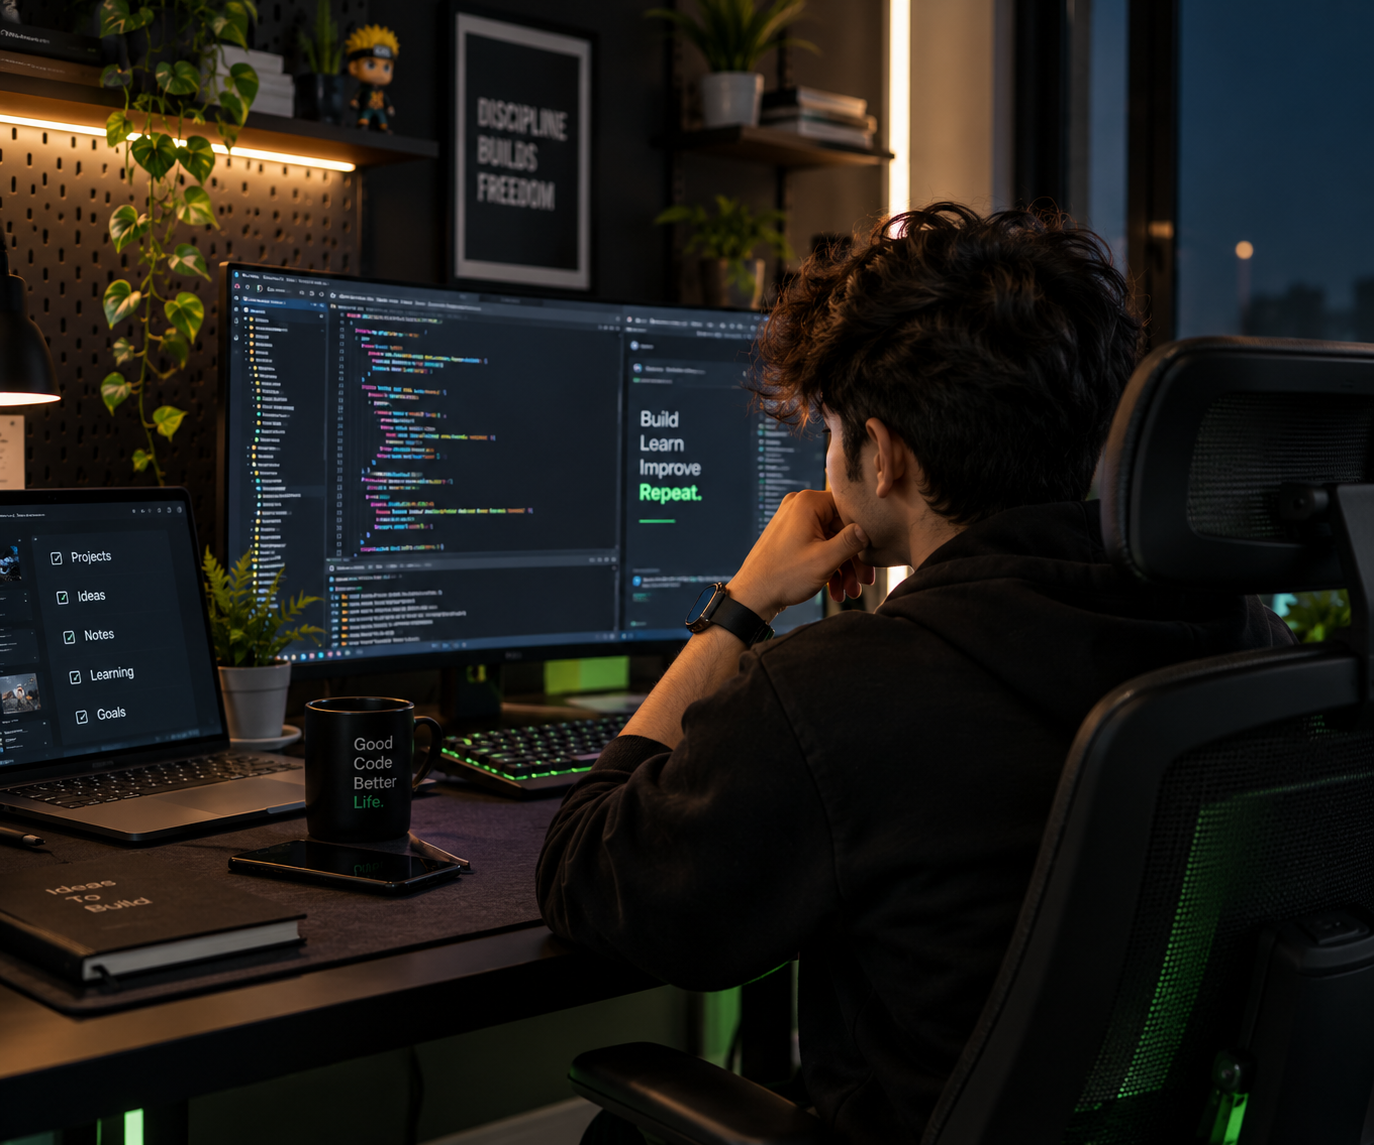
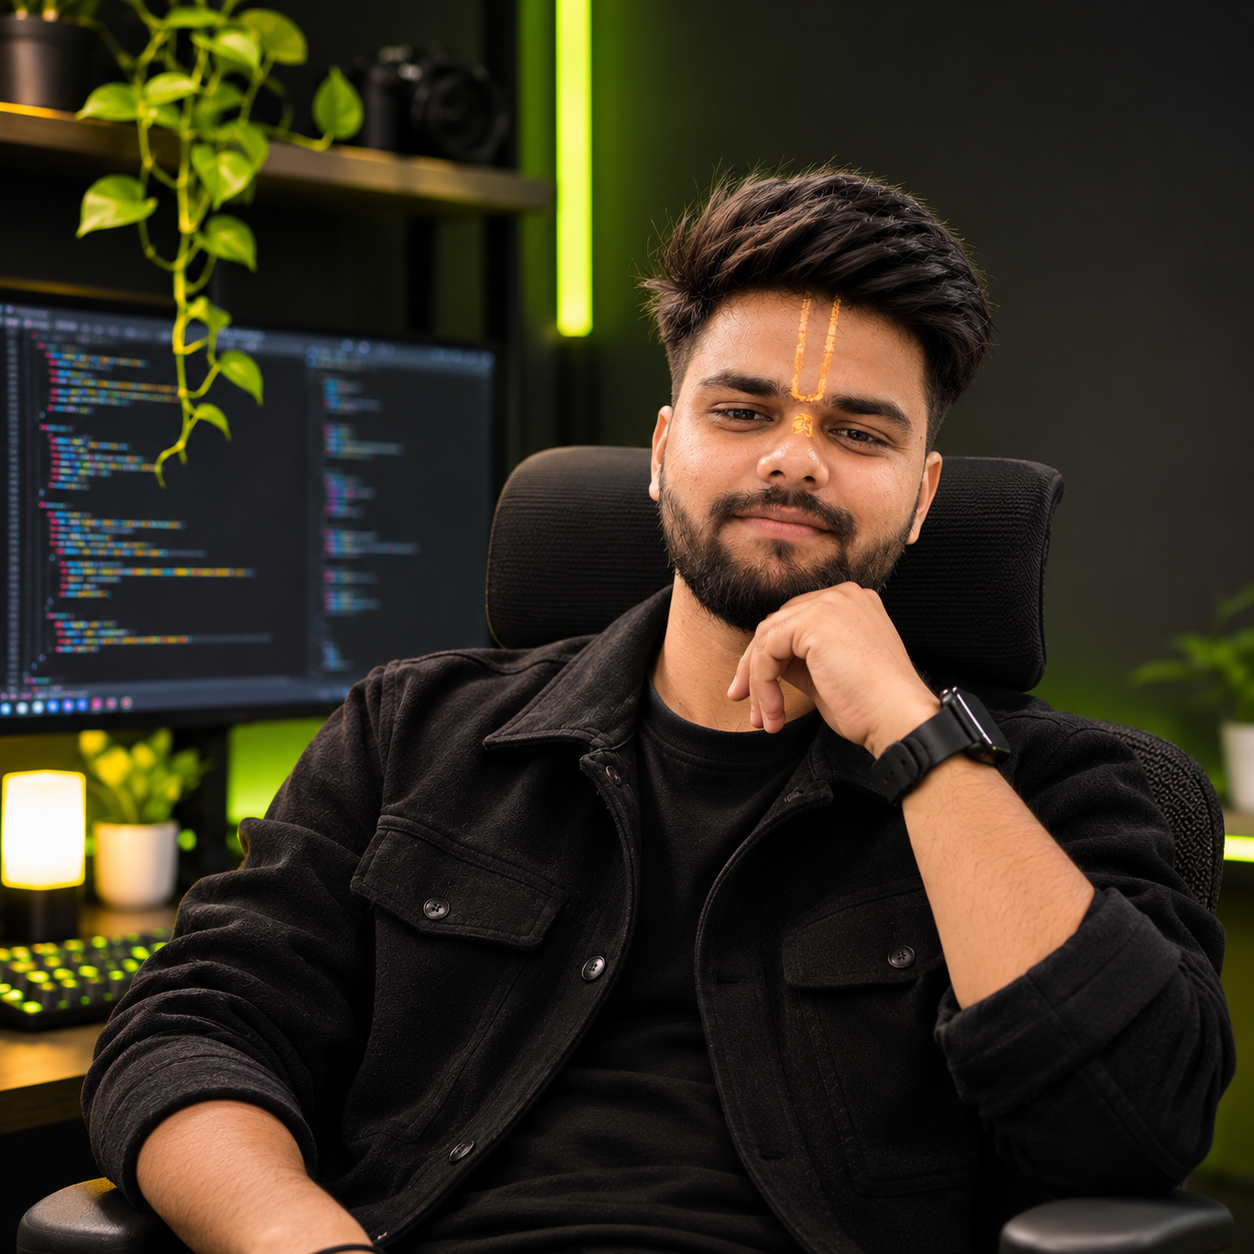
successfully create other sections

diff --git a/frontend/src/pages/AskAISection.tsx b/frontend/src/pages/AskAISection.tsx
@@ -1,0 +1,190 @@
+
+import {
+  ArrowRight,
+  Bot,
+  LockKeyhole,
+  Sparkles,
+} from "lucide-react";
+
+const suggestions = [
+  "His projects?",
+  "Skills?",
+  "His development journey?",
+];
+
+const AskAISection = () => {
+  const isActivated = false;
+
+  return (
+    <section id="ask-ai" className="section">
+      <div className="grid grid-cols-1 items-center gap-12 lg:grid-cols-[0.9fr_1.1fr] lg:gap-16">
+
+        {/* Left Content */}
+        <div>
+          <p className="label">07 / ASK AI</p>
+
+          <h2 className="max-w-lg text-4xl leading-[1.1] font-bold tracking-tight sm:text-5xl lg:text-6xl">
+            Curious about me?
+            <br />
+            Just <span className="text-brand">ask.</span>
+          </h2>
+
+          <p className="mt-6 max-w-md text-base leading-8 text-muted">
+            My personal AI assistant can help you explore my projects,
+            technical skills and development journey.
+            Get to know more about how I work without searching
+            through the entire portfolio.
+          </p>
+
+          <div className="mt-8 flex items-center gap-3">
+            <span className="flex h-9 w-9 items-center justify-center rounded-xl border border-line bg-surface text-brand">
+              <Sparkles size={17} />
+            </span>
+
+            <span className="text-sm text-muted">
+              A little more about me, powered by AI.
+            </span>
+          </div>
+        </div>
+
+        {/* Chat Preview */}
+        <div className="relative overflow-hidden rounded-3xl border border-line bg-surface shadow-2xl">
+
+          {/* Chat Header */}
+          <div className="flex items-center justify-between border-b border-line px-5 py-5 sm:px-7">
+            <div className="flex items-center gap-3">
+              <div className="flex h-10 w-10 items-center justify-center rounded-xl border border-line bg-surface-2 text-brand">
+                <Bot size={21} />
+              </div>
+
+              <div>
+                <h3 className="text-sm font-semibold text-text">
+                  Vivek's AI assistant
+                </h3>
+                <p className="mt-1 font-mono text-[10px] text-muted">
+                  PERSONAL KNOWLEDGE ASSISTANT
+                </p>
+              </div>
+            </div>
+
+            <span className="flex items-center gap-2 font-mono text-xs text-muted">
+              <span className={`h-2 w-2 rounded-full ${
+                isActivated ? "bg-brand" : "bg-yellow-400"
+              }`} />
+              {isActivated ? "online" : "offline"}
+            </span>
+          </div>
+
+          {/* Chat Messages */}
+          <div className="space-y-5 p-5 sm:p-7">
+
+            {/* Assistant Message */}
+            <div className="max-w-[90%] rounded-2xl rounded-tl-sm border border-line bg-surface-2 px-4 py-4">
+              <p className="text-sm leading-6 text-text">
+                Hi! I'm Vivek's assistant. Ask me about his projects,
+                technical skills or development journey.
+              </p>
+            </div>
+
+            {/* User Message */}
+            <div className="ml-auto max-w-[85%] rounded-2xl rounded-br-sm bg-brand px-4 py-4">
+              <p className="text-sm font-medium text-ink">
+                What has Vivek built so far?
+              </p>
+            </div>
+
+            {/* Assistant Response */}
+            <div className="max-w-[95%] rounded-2xl rounded-tl-sm border border-line bg-surface-2 px-4 py-4">
+              <p className="text-sm leading-6 text-muted">
+                Once activated, I'll help you explore Vivek's projects,
+                the technologies he uses and the problems he's worked on.
+              </p>
+            </div>
+
+            {/* Suggested Questions */}
+            <div className="flex flex-wrap gap-2">
+              {suggestions.map((suggestion) => (
+                <span
+                  key={suggestion}
+                  className="rounded-full border border-line-strong px-3 py-2 font-mono text-[11px] text-muted"
+                >
+                  {suggestion}
+                </span>
+              ))}
+            </div>
+          </div>
+
+          {/* Input Preview */}
+          <div className="border-t border-line p-5 sm:p-6">
+            <div className="flex items-center gap-3">
+              <div className="flex-1 rounded-full border border-line-strong bg-bg px-5 py-4">
+                <span className="text-sm text-muted">
+                  Ask something about Vivek...
+                </span>
+              </div>
+
+              <button
+                type="button"
+                disabled
+                aria-label="Send message (unavailable)"
+                className="flex h-12 w-12 shrink-0 items-center justify-center rounded-full bg-brand text-ink opacity-50"
+              >
+                <ArrowRight size={20} />
+              </button>
+            </div>
+          </div>
+
+          {/* Activation Overlay */}
+          {!isActivated && (
+            <div className="absolute inset-0 z-10 flex items-center justify-center bg-bg/65 p-5 backdrop-blur-[3px]">
+              <div className="w-full max-w-sm rounded-2xl border border-line-strong bg-surface/95 p-6 shadow-2xl sm:p-7">
+
+                <div className="mx-auto flex h-12 w-12 items-center justify-center rounded-2xl border border-brand/20 bg-brand/10 text-brand">
+                  <LockKeyhole size={22} />
+                </div>
+
+                <h3 className="mt-5 text-center text-xl font-bold text-text">
+                  Something is brewing.
+                </h3>
+
+                <p className="mt-3 text-center text-sm leading-6 text-muted">
+                  I'm preparing my personal AI assistant.
+                  It'll be ready to answer your questions soon.
+                </p>
+
+                {/* Activation Progress */}
+                <div className="mt-6">
+                  <div className="mb-3 flex items-center justify-between">
+                    <span className="font-mono text-[10px] tracking-wider text-brand">
+                      SYSTEM INITIALIZATION
+                    </span>
+                    <span className="font-mono text-[10px] text-muted">
+                      IN PROGRESS
+                    </span>
+                  </div>
+
+                  <div className="h-1.5 overflow-hidden rounded-full bg-line">
+                    <div className="h-full w-1/3 rounded-full bg-brand animate-pulse" />
+                  </div>
+
+                  <p className="mt-3 text-center font-mono text-[10px] text-muted">
+                    Knowledge base · Configuration · Testing
+                  </p>
+                </div>
+
+                <div className="mt-6 flex items-center justify-center gap-2">
+                  <span className="h-1.5 w-1.5 animate-pulse rounded-full bg-brand" />
+                  <span className="font-mono text-[10px] text-muted">
+                    COMING SOON
+                  </span>
+                </div>
+              </div>
+            </div>
+          )}
+        </div>
+      </div>
+    </section>
+  );
+};
+
+export default AskAISection;

diff --git a/frontend/src/pages/ContactSection.tsx b/frontend/src/pages/ContactSection.tsx
@@ -1,0 +1,105 @@
+
+import { ArrowUpRight, Mail } from "lucide-react";
+import { FaGithub, FaLinkedin } from "react-icons/fa6";
+
+const contactLinks = [
+  {
+    label: "GitHub",
+    href: "https://github.com/Vivek-Sharma-dev",
+    icon: FaGithub,
+  },
+  {
+    label: "LinkedIn",
+    href: "https://www.linkedin.com/in/vivek-sharma-webdev",
+    icon: FaLinkedin,
+  },
+];
+
+const ContactSection = () => {
+  const currentYear = new Date().getFullYear();
+
+  return (
+    <footer id="contact" className="section pb-8">
+      {/* Main Contact Card */}
+      <div className="relative overflow-hidden rounded-3xl border border-line bg-surface px-6 py-20 text-center sm:px-12 sm:py-24 lg:py-28">
+
+        {/* Background Glow */}
+        <div className="pointer-events-none absolute left-1/2 top-0 h-72 w-72 -translate-x-1/2 rounded-full bg-brand/5 blur-[100px]" />
+
+        {/* Content */}
+        <div className="relative mx-auto flex max-w-4xl flex-col items-center">
+
+          <p className="label mb-7">08 / CONTACT</p>
+
+          <h2 className="text-4xl leading-[1.1] font-bold tracking-tight sm:text-5xl lg:text-7xl">
+            Let's build something
+            <br className="hidden sm:block" />
+            <span className="text-brand"> together.</span>
+          </h2>
+
+          <p className="mt-6 max-w-xl text-sm leading-7 text-muted sm:text-base sm:leading-8">
+            Have a project idea, an opportunity, or just want to
+            talk about technology? My inbox is always open.
+          </p>
+
+          {/* Email CTA */}
+          <a
+            href="mailto:vivek.fsd@gmail.com"
+            className="btn mt-9 inline-flex items-center gap-3"
+          >
+            <Mail size={18} />
+            Get in touch
+            <ArrowUpRight size={17} />
+          </a>
+
+          {/* Social Links */}
+          <div className="mt-10 flex flex-wrap items-center justify-center gap-7">
+            {contactLinks.map((link) => {
+              const Icon = link.icon;
+
+              return (
+                <a
+                  key={link.label}
+                  href={link.href}
+                  target="_blank"
+                  rel="noreferrer"
+                  className="group inline-flex items-center gap-2 border-b border-line-strong pb-1 text-sm text-muted transition-colors duration-200 hover:border-brand hover:text-brand"
+                >
+                  <Icon size={16} />
+                  {link.label}
+                  <ArrowUpRight
+                    size={13}
+                    className="transition-transform duration-200 group-hover:-translate-y-0.5 group-hover:translate-x-0.5"
+                  />
+                </a>
+              );
+            })}
+          </div>
+        </div>
+      </div>
+
+      {/* Footer Bottom */}
+      <div className="mt-8 flex flex-col items-center justify-between gap-4 sm:flex-row">
+        <div className="font-mono text-xs text-muted">
+          © {currentYear} Vivek Sharma.
+          <span className="ml-2 text-brand">All rights reserved.</span>
+        </div>
+
+        <div className="flex items-center gap-2 font-mono text-xs text-muted">
+          <span>Crafted with</span>
+          <span className="text-brand">♥</span>
+          <span>using React & TypeScript</span>
+        </div>
+
+        <a
+          href="#home"
+          className="font-mono text-xs text-muted transition-colors hover:text-brand"
+        >
+          BACK TO TOP ↑
+        </a>
+      </div>
+    </footer>
+  );
+};
+
+export default ContactSection;

diff --git a/frontend/src/App.tsx b/frontend/src/App.tsx
@@ -1,5 +1,7 @@
 import Navbar from "./components/layout/Navbar";
 import AboutSection from "./pages/AboutSection";
+import AskAISection from "./pages/AskAISection";
+import ContactSection from "./pages/ContactSection";
 import HeroSection from "./pages/HeroSection";
 import JourneySection from "./pages/JourneySkills";
 import ProcessSection from "./pages/ProcessSection";
@@ -17,6 +19,8 @@ const App = () => {
         <JourneySection />  
         <AboutSection />
         <ProcessSection />
+        <AskAISection />
+        <ContactSection />
       </main>
     </>
   );
